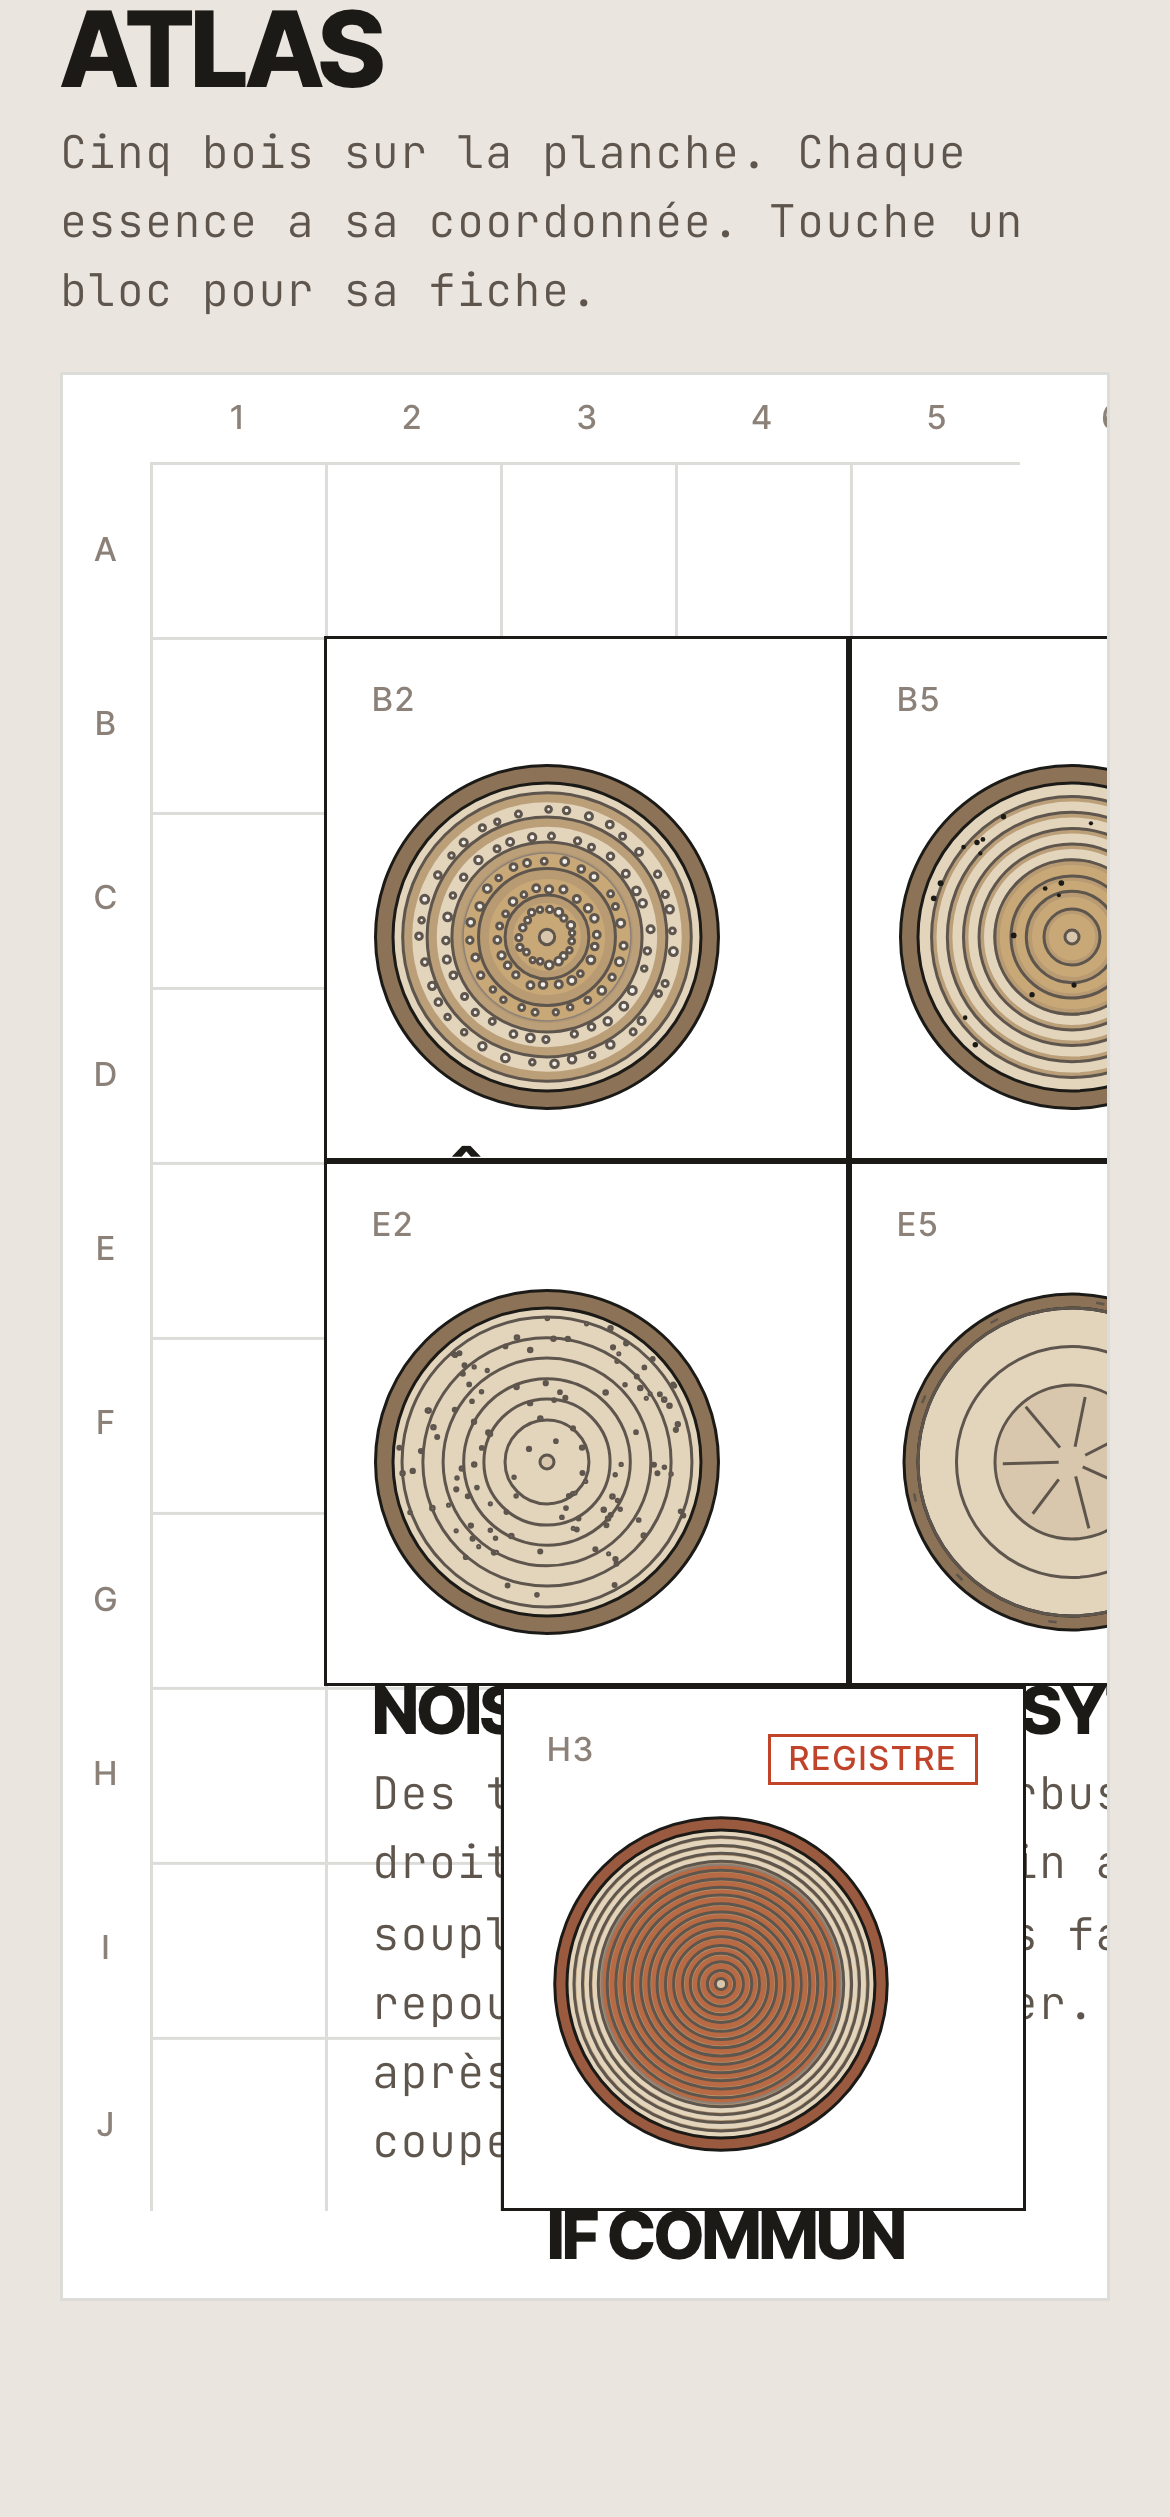
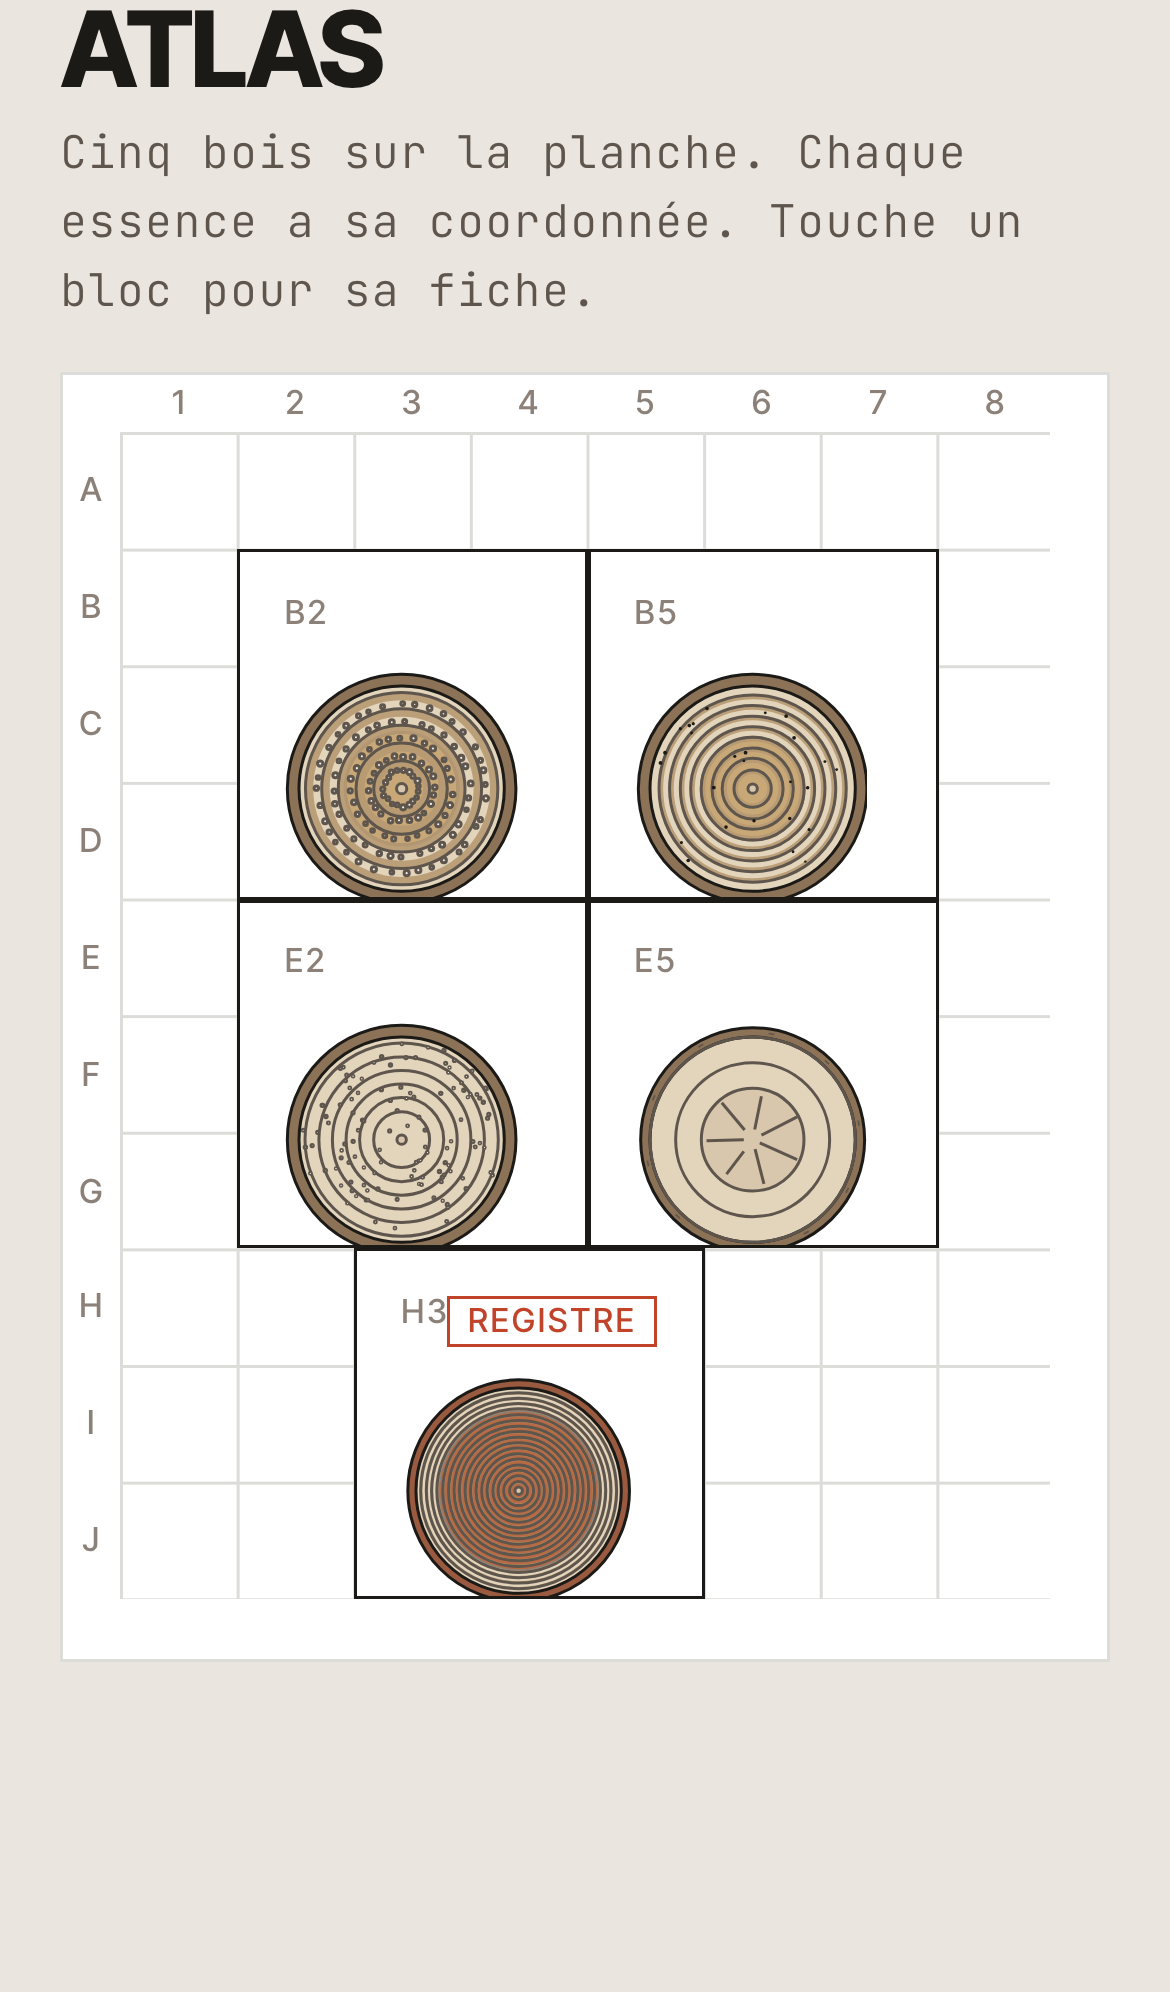
fix: retours de revue
Revue indépendante (section 11) : 15/15 conformes. Correctif appliqué : la planche
Atlas tient désormais dans la largeur mobile (--cell local) et ses blocs sont contenus.

diff --git a/src/views/AtlasView.vue b/src/views/AtlasView.vue
@@ -38,6 +38,14 @@ const grilleStyle: CSSProperties = {
 </script>
 
 <style scoped>
+/* La planche fait 8 colonnes + règles ; sur mobile le --cell du socle (6 col)
+   la ferait déborder. On recalcule un --cell local pour que toute la planche
+   (règles comprises) tienne dans la largeur disponible. Tout (grille, coupes,
+   blocs) se met à l'échelle ensemble puisque Plate et AtlasBloc lisent --cell. */
+.atlas {
+  --cell: calc((min(100vw, 1280px) - 2 * var(--margin)) / 9);
+}
+
 .atlas__head {
   margin-bottom: var(--minor);
 }
@@ -57,7 +65,7 @@ const grilleStyle: CSSProperties = {
   max-width: 48ch;
 }
 
-/* Permet le défilement horizontal si la planche dépasse l'écran étroit. */
+/* Garde-fou : si la planche dépasse malgré tout, on peut la faire défiler. */
 .atlas :deep(.plate) {
   overflow-x: auto;
 }

diff --git a/src/components/screens/atlas/AtlasBloc.vue b/src/components/screens/atlas/AtlasBloc.vue
@@ -59,6 +59,9 @@ const style = computed<CSSProperties>(() => {
   background: var(--plate);
   border: var(--line) solid var(--ink);
   transition: background var(--t-fast) linear, color var(--t-fast) linear;
+  /* Chaque bloc reste contenu dans son emprise de cellules : pas de débordement
+     sur les blocs voisins de la planche. */
+  overflow: hidden;
 }
 
 .atlas-bloc:active {
@@ -101,6 +104,11 @@ const style = computed<CSSProperties>(() => {
 .atlas-bloc__resume {
   margin: 0;
   color: var(--ink-2);
+  display: -webkit-box;
+  -webkit-line-clamp: 2;
+  line-clamp: 2;
+  -webkit-box-orient: vertical;
+  overflow: hidden;
 }
 
 .atlas-bloc:active .atlas-bloc__resume {

diff --git a/docs/DECISIONS.md b/docs/DECISIONS.md
@@ -117,3 +117,12 @@ Journal des décisions prises en autonomie pendant la construction (section 3 de
 - **Revue visuelle** : mot-symbole « LICHEN » de l'accueil ramené à `--px: var(--minor)`
   (il débordait à `--cell`, seul « LI » restait visible). États vides « Spécimen introuvable »
   passés de `--signal` à `--ink-2` : le vermillon reste réservé au registre et au destructif.
+
+## Phase 3 — Revue indépendante (section 11)
+
+- Revue indépendante (agent lecture seule, section 11) : **les 15 points sont conformes**.
+  Aucune non-conformité fonctionnelle relevée.
+- **Retour de revue appliqué** : la planche Atlas (8 colonnes + règles) débordait sur mobile
+  avec le `--cell` du socle (6 colonnes). On recalcule un `--cell` local à l'Atlas pour que
+  toute la planche tienne dans la largeur, et chaque `AtlasBloc` est contenu (`overflow: hidden`,
+  résumé tronqué à 2 lignes) pour ne pas déborder sur ses voisins.
